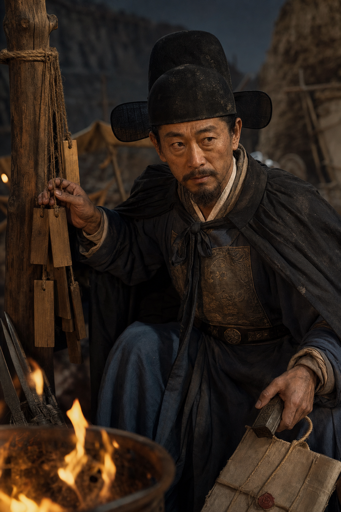
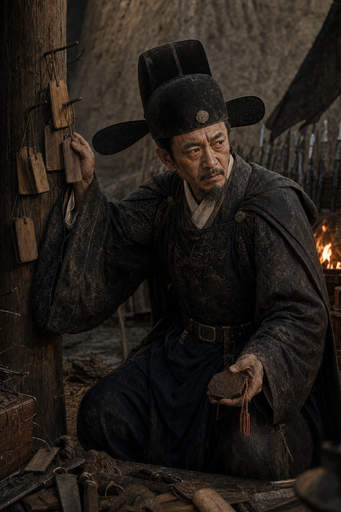
cmr r6: close portrait asset and prompt findings

diff --git a/docs/portrait-prompts-scene-v2.md b/docs/portrait-prompts-scene-v2.md
@@ -160,7 +160,7 @@ Composition/framing: Use a pose silhouette that cannot collapse into the same de
 姿势锚点：
 身体朝向=站在卷宗架旁，身体正面略偏左；重心=直立稳在两脚之间；双手位置=右手从高架抽出一本厚空白名单册，左手把另一册夹在腋下；道具关系=名单册、履历卷宗、印匣形成「决定谁进谁退」关系；视线方向=平平扫向旁侧人影，像在掂量人；动作类型=站姿、抽册、夹册，不坐案前递册。
 
-场景服饰：深黑蓝文官袍，吏部权柄感，纹样锋利克制；吏部铨选房，高卷宗架、无字名册、印匣、官员履历卷宗。
+场景服饰：深黑蓝文官袍，吏部权柄感，纹样锋利克制；吏部铨选房，高卷宗架、无字名册、印匣、无字官员履历卷宗。
 
 专属负面：不要拿刀剑，不要画成狞笑奸臣。Do not reuse the same actor face, facial structure, beard pattern, body type, pose, or silhouette as other portraits in this batch.
 
@@ -226,7 +226,7 @@ Composition/framing: Use a pose silhouette that cannot collapse into the same de
 
 场景服饰：深色文官袍外加被海风打湿的旅行披风，衣摆有盐渍和尘土；夜色海船甲板或登岸驿口，破帆、浪影、封缄国书箱、昏暗船灯，不要现代船。
 
-专属负面：不要画成文弱馆阁官，不要与张延登、袁可立同款海防楼台文官（刘鸿训在颠簸海船、身带怒气）。Do not reuse the same actor face, facial structure, beard pattern, body type, pose, or silhouette as other portraits in this batch.
+专属负面：不要画成文弱馆阁官，不要与张延登、袁可立同款海防楼台文官，不要与张煌言共用诗人海船抓绳抱卷姿态（刘鸿训在颠簸海船、身带怒气）。Do not reuse the same actor face, facial structure, beard pattern, body type, pose, or silhouette as other portraits in this batch.
 
 #### 钱谦益 `minister_钱谦益.png`
 
@@ -254,7 +254,7 @@ Composition/framing: Use a pose silhouette that cannot collapse into the same de
 脸型=端正的长方脸；额头=方正平整；眉眼=眉眼沉稳，目光正而不凌厉；鼻梁=直；颧骨=平稳端正；嘴唇=端方不薄；下颌=方而稳；胡须=整齐，少量灰；肤色=端正的中和肤色，不晒不病；皱纹=额头平纹、眼角浅纹；神情=可靠守法的制度感，严肃而不凌厉。
 
 姿势锚点：
-身体朝向=正面略前倾，朝召对方向；重心=肩背端直，稳立；双手位置=一手把无字奏疏竖起在胸前，另一手平伸作克制劝谏；道具关系=奏疏、烛台、无字奏疏匣形成「朝堂直言辩白」关系；视线方向=平视前方，正对召对；动作类型=正立前倾、举疏、伸手劝谏，不拢袖静立。
+身体朝向=正面略前倾，朝召对方向；重心=肩背端直，稳立；双手位置=一手把无字奏疏竖起在胸前，另一手抬在胸前作克制劝谏，手掌完整留在中轴安全区内；道具关系=奏疏、烛台、无字奏疏匣形成「朝堂直言辩白」关系；视线方向=平视前方，正对召对；动作类型=正立前倾、举疏、抬手劝谏，不拢袖静立。
 
 场景服饰：深蓝黑文官袍，简洁端方；宫中召对或礼部堂上，暗色柱影、烛台、无字奏疏匣。
 
@@ -318,11 +318,11 @@ Composition/framing: Use a pose silhouette that cannot collapse into the same de
 脸型=白而松的椭圆脸；额头=宽；眉眼=眉细，眼神聪明但漂移；鼻梁=直而细；颧骨=被松软白肉盖住；嘴唇=笑意已经僵住，嘴角发紧；下颌=松而圆；胡须=修整得很细；肤色=养白却被军帐风尘压暗；皱纹=眼下松纹、嘴角僵笑纹；神情=把怯战包装成功劳的心虚，不是青年新贵。
 
 姿势锚点：
-身体朝向=半坐半起，身体微微后缩；重心=欲起又缩，悬在椅与案之间；双手位置=一手把封缄捷报递向旁侧信使方向，但手和整封捷报完整留在中轴安全区内，另一手用袖口压住散乱无字军报与被压住的败报；道具关系=虚捷报、被压住的败报、令牌形成「军帐递虚捷」关系；视线方向=递报却不敢正视信使，眼神飘；动作类型=半坐半起、递捷、压败报，不拱手正立。
+身体朝向=半坐半起，身体微微后缩；重心=欲起又缩，悬在椅与案之间；双手位置=一手把封缄捷报递向旁侧空位方向，但手和整封捷报完整留在中轴安全区内，另一手用袖口压住散乱无字军报与被压住的败报；道具关系=虚捷报、被压住的败报、令牌形成「军帐递虚捷」关系；视线方向=递报却不敢正视旁侧空位，眼神飘；动作类型=半坐半起、递捷、压败报，不拱手正立。
 
 场景服饰：精致深蓝黑首辅文官袍，外披军中暗色厚披风，衣冠仍讲究但被风尘压住；通州临时督师帐，帐外远处有京畿烽烟和寒风，无字捷报、被压住的败报、令牌、半凉茶盏。
 
-专属负面：不要画成青年新贵，不要画成脸谱奸相，不要与温体仁或钱谦益共用白净椭圆脸和漂移眼神。Do not reuse the same actor face, facial structure, beard pattern, body type, pose, or silhouette as other portraits in this batch.
+专属负面：不要画成青年新贵，不要画成脸谱奸相，不要出现第二个人物或第二只接报手，不要与温体仁或钱谦益共用白净椭圆脸和漂移眼神。Do not reuse the same actor face, facial structure, beard pattern, body type, pose, or silhouette as other portraits in this batch.
 
 #### 倪元璐 `minister_倪元璐.png`
 
@@ -594,25 +594,25 @@ Composition/framing: Use a pose silhouette that cannot collapse into the same de
 脸型=长方严肃脸，六十岁上下；额头=高而起横纹；眉眼=花白浓眉，眼神沉重疲惫；鼻梁=直而平；颧骨=不削，带松弛；嘴唇=抿而下垂；下颌=略松微垂；胡须=花白长须，齐整；肤色=灰黄少血色；皱纹=额纹、眼袋纹、法令纹深；神情=知自己只是暂压矛盾的沉重。
 
 姿势锚点：
-身体朝向=坐案侧身朝旁侧边将方向，上半身略转；重心=偏压在推令的右臂；双手位置=左手按住一封空白保任奏疏，右手把空白将令推向旁侧边将方向，但右手和整枚将令完整留在中轴安全区内；道具关系=保任奏疏、空白将令、辽东地图连成“替边将保任”关系；视线方向=却望向关门外，似有忧虑；动作类型=按奏疏、推将令，不双手按桌。
+身体朝向=坐案侧身朝旁侧军令匣方向，上半身略转；重心=偏压在推令的右臂；双手位置=左手按住一封空白保任奏疏，右手把空白将令推向旁侧军令匣方向，但右手和整枚将令完整留在中轴安全区内；道具关系=保任奏疏、空白将令、辽东地图连成“替边将保任”关系；视线方向=却望向关门外，似有忧虑；动作类型=按奏疏、推将令，不双手按桌。
 
 场景服饰：文官督师袍外加厚披风与轻甲护肩；宁远军务帐，无字辽东地图、满桂军牌空白将令、尚方剑匣、火盆、旧军报。
 
-专属负面：不要画成英武名帅，不要黝黑猛将，不要双手按桌。Do not reuse the same actor face, facial structure, beard pattern, body type, pose, or silhouette as other portraits in this batch.
+专属负面：不要画成英武名帅，不要黝黑猛将，不要双手按桌，不要出现第二个人物或第二只接令手。Do not reuse the same actor face, facial structure, beard pattern, body type, pose, or silhouette as other portraits in this batch.
 
 #### 毛文龙 `minister_毛文龙.png`
 
 人物：毛文龙，东江镇总兵，经营皮岛、牵制后金，却跋扈难制，最终被袁崇焕斩于双岛。
 
-历史锚点：双岛召见前的皮岛海上军镇里，他倚着船桅压住东江军册，斜视脚边未拆的空白督师令，神色不服。
+历史锚点：双岛召见前的皮岛海上军镇里，他倚着船桅压住东江军册，斜视桅座旁未拆的空白督师令，神色不服。
 
 脸部锚点：
 脸型=宽阔粗脸，五十岁上下；额头=宽而粗糙；眉眼=乱浓眉，眼神桀骜不服；鼻梁=宽而带海风皴裂；颧骨=高阔；嘴唇=厚而下撇；下颌=方阔带须；胡须=乱黑须夹灰，不守规整；肤色=海风吹出的黝黑；皱纹=额纹、眼角纹、风皴；神情=江湖军阀气，桀骜难制。
 
 姿势锚点：
-身体朝向=半侧身倚着船桅，肩朝海外；重心=斜倚压在桅杆上，散漫；双手位置=右手按刀柄，左手压住无字东江军饷册；道具关系=无字东江军饷册、脚边未拆的空白督师令、粮船货箱连成“跋扈待罪”关系；视线方向=斜睨脚边督师令，不服；动作类型=倚桅压册斜视，不站立持令。
+身体朝向=半侧身倚着船桅，肩朝海外；重心=斜倚压在桅杆上，散漫；双手位置=右手按刀柄，左手压住无字东江军饷册；道具关系=无字东江军饷册、桅座旁未拆的空白督师令、粮船货箱连成“跋扈待罪”关系；视线方向=斜睨桅座旁督师令，不服；动作类型=倚桅压册斜视，不站立持令。
 
-场景服饰：明军将领甲胄混搭厚皮袍，略不守规制；皮岛东江海岛军营，海风、船影、火盆、无字军旗、粮船货箱、空白督师令。
+场景服饰：明军将领甲胄混搭厚皮袍，略不守规制；皮岛东江海岛军营，海风、船影、火盆、无字军旗、粮船货箱、桅座旁空白督师令。
 
 专属负面：不要画成正统边帅或处决场景，不要瘦长脸，不要正面站定持令，不要与左良玉共用病态倚舷抓绳回望火光姿态。Do not reuse the same actor face, facial structure, beard pattern, body type, pose, or silhouette as other portraits in this batch.
 
@@ -626,11 +626,11 @@ Composition/framing: Use a pose silhouette that cannot collapse into the same de
 脸型=厚重偏方的北地官脸；额头=宽而被风吹暗；眉眼=眉毛粗短，眼神疲惫里带算计；鼻梁=宽直；颧骨=中高，被风霜磨出硬线；嘴唇=偏厚，嘴角向下压；下颌=宽钝；胡须=浓短灰黑须，边镇尘土未净；肤色=风霜暗黄；皱纹=眼袋重、额侧风纹和法令纹深；神情=边务疲惫与附阉求稳混在一起，不是纯武将。
 
 姿势锚点：
-身体朝向=半侧身站在祠堂木模型与边防图之间；重心=向递奏稿的右臂前压；双手位置=右手把封缄颂功奏稿递向旁侧内侍方向，但手和整封奏稿完整留在中轴安全区内，左手按住祠堂木模型；道具关系=颂功奏稿、祠堂模型、边防图形成“边务献媚内廷”关系；视线方向=看向屏风外的内侍方向；动作类型=站姿、递稿、压模型，不按刀。
+身体朝向=半侧身站在祠堂木模型与边防图之间；重心=向递奏稿的右臂前压；双手位置=右手把封缄颂功奏稿递向屏风前阴影方向，但手和整封奏稿完整留在中轴安全区内，左手按住祠堂木模型；道具关系=颂功奏稿、祠堂模型、边防图形成“边务献媚内廷”关系；视线方向=看向屏风前阴影方向；动作类型=站姿、递稿、压模型，不按刀。
 
 场景服饰：文官督师袍加厚披风，暗色官帽，少量军务尘土；蓟辽总督衙署旁的暗色祠堂筹建值房，边墙阴影、无字边防图、祠堂木模型、军报、封缄颂功奏稿。
 
-专属负面：不要画成纯武将，不要像王在晋的保守关防老人，不要把附阉画成夸张奸笑。Do not reuse the same actor face, facial structure, beard pattern, body type, pose, or silhouette as other portraits in this batch.
+专属负面：不要画成纯武将，不要像王在晋的保守关防老人，不要把附阉画成夸张奸笑，不要出现第二个人物或第二只接稿手。Do not reuse the same actor face, facial structure, beard pattern, body type, pose, or silhouette as other portraits in this batch.
 
 #### 洪承畴 `minister_洪承畴.png`
 
@@ -706,7 +706,7 @@ Composition/framing: Use a pose silhouette that cannot collapse into the same de
 脸型=方阔国字脸；额头=中等、压在束发软帻下，发际被尘汗黏住；眉眼=浓硬粗眉，眼睛直瞪而含怒；鼻梁=直而宽，鼻翼绷紧；颧骨=方硬突出；嘴唇=厚而紧抿，几乎咬住；下颌=宽方有力；胡须=硬而短的络腮连下颌须，根根支楞不修；肤色=被旷野风沙晒成的赭褐；皱纹=眉间深竖纹、嘴角硬纹；神情=兵孤粮尽却脊梁不折的刚怒。
 
 姿势锚点：
-身体朝向=正面挺立，胸膛朝向逼降者，头却扭向城墙的反方向；重心=双脚分立稳压地面，被绳束仍站得笔直；双手位置=双手在身前被粗绳草草缚住、十指相扣不肯松；道具关系=束绳、脚边落下的劝降令、空粮袋构成“被俘拒喊话”关系；视线方向=别开逼降者、斜望旷野远处城墙；动作类型=站姿、扭头拒喊、十指相扣，不按桌不持械。
+身体朝向=正面挺立，胸膛朝向逼降者，头却扭向城墙的反方向；重心=双脚分立稳压地面，被绳束仍站得笔直；双手位置=双手在身前被粗绳草草缚住、十指相扣不肯松；道具关系=束绳、腰前挂住的无字劝降令、空粮袋构成“被俘拒喊话”关系；视线方向=别开逼降者、斜望旷野远处城墙；动作类型=站姿、扭头拒喊、十指相扣，不按桌不持械。
 
 场景服饰：文官督师袍外罩破损披风与轻甲护肩，深蓝黑、沾泥血尘但不血腥，衣摆撕裂；河南旷野临时敌营，无字破旗、断箭、空粮袋、寒风、远处城墙剪影。
 
@@ -912,7 +912,7 @@ Composition/framing: Use a pose silhouette that cannot collapse into the same de
 脸型=矮瘦窄脸；额头=不高，额角被尘土压暗；眉眼=短斜眉，小眼警醒；鼻梁=薄而直；颧骨=外露，脸颊收紧；嘴唇=干裂；下颌=尖硬；胡须=短黑须夹尘灰；肤色=黝黑带黄土色；皱纹=眼尾和嘴角有风沙细纹；神情=实地清点战果的警惕，不是坐衙书生。
 
 姿势锚点：
-身体朝向=半蹲在木柱旁；重心=压在靠近木牌的右膝和右手；双手位置=右手挂一串无字木牌，左手握巡抚令牌；道具关系=木牌、军报、缴获兵器连成“俘杀群寇”关系；视线方向=侧向营外火光；动作类型=半蹲、挂牌、握令，不按桌。
+身体朝向=半蹲在木柱旁；重心=压在靠近木牌的右膝和右手；双手位置=右手挂一串无字木牌，左手握小型无字巡抚令牌且完整留在中轴安全区内；道具关系=木牌、军报、缴获兵器连成“俘杀群寇”关系；视线方向=侧向营外火光；动作类型=半蹲、挂牌、握令，不按桌。
 
 场景服饰：地方文官袍外披军务短披风；陕西黄土行营，火盆、缴获兵器、临时木柱、无字木牌、封缄军报。
 
@@ -989,7 +989,7 @@ Composition/framing: Use a pose silhouette that cannot collapse into the same de
 姿势锚点：
 身体朝向=面向湿冷军图大幅前倾；重心=压在两臂之间；双手位置=一手握明军令牌，一手推大顺旧木牌向中间合拢；道具关系=明军令牌、大顺旧牌、湖南军图形成“拼凑联盟”关系；视线方向=盯两牌交汇处；动作类型=俯身、双臂合牌，不是海防推模型。
 
-场景服饰：深蓝文官督师袍，行旅披风和轻甲护肩；湘楚军务行营、湿冷火盆、无字湖南军图、旧旗残片、封缄军报。
+场景服饰：深蓝文官督师袍，行旅披风和轻甲护肩；湘楚军务行营、湿冷火盆、无字湖南军图、纯色无纹旧旗残片、封缄军报；旗面不要出现像字形、书法或徽记笔画的亮色痕迹，不出现背景人物脸。
 
 专属负面：不要像邹维琏的海防桌案，不要像史可法的城墙守死，不要普通地方官。Do not reuse the same actor face, facial structure, beard pattern, body type, pose, or silhouette as other portraits in this batch.
 
@@ -1021,7 +1021,7 @@ Composition/framing: Use a pose silhouette that cannot collapse into the same de
 
 场景服饰：深青文武混合袍服，海风短披风，佩剑克制；浙东/舟山海船甲板、夜海、船帆、布面纯色无纹的无字军旗、远处城影；旗面不要出现像字形、书法或徽记笔画的亮色痕迹。
 
-专属负面：不要老白须，不要少年童生，不要普通成熟将军，不要像史可法的城墙守臣。Do not reuse the same actor face, facial structure, beard pattern, body type, pose, or silhouette as other portraits in this batch.
+专属负面：不要老白须，不要少年童生，不要普通成熟将军，不要像史可法的城墙守臣，不要与刘鸿训共用海船抓缆护书姿态，不要与郑成功共用台江战船按模型握令旗姿态。Do not reuse the same actor face, facial structure, beard pattern, body type, pose, or silhouette as other portraits in this batch.
 
 ## 宗藩与宫廷宗室
 
@@ -1147,7 +1147,7 @@ Composition/framing: Use a pose silhouette that cannot collapse into the same de
 历史锚点：后金议政帐中，他在皇太极面前怒而半拔刀、越过礼法线的一瞬。
 脸部锚点：脸型=短宽脸、脖颈粗；额头=低宽；眉眼=眉浓乱、眼大外露；鼻梁=钝粗；颧骨=粗阔；嘴唇=嘴角绷硬；下颌=宽厚紧绷；胡须/发饰=满洲垂辫、浓黑短须；肤色=风吹粗粝；皱纹/年龄纹=四十上下、额颊粗纹；神情=一点就着、暴烈失控。
 姿势锚点：身体朝向=斜向前方冲出；重心=前倾失稳；双手位置=右手握半出鞘刀柄、左手抓扯乱的披风边；道具关系=露刃越礼；视线方向=逼视皇太极；动作类型=怒而半拔刀。
-场景服饰：后金军帐，火盆、无字蓝旗影、刀弓、被震翻的酒碗、议政木牌散乱；后金甲胄，厚皮袍，蓝旗系深蓝细节，暗色披风。
+场景服饰：后金军帐，火盆、无字蓝旗影、刀弓、被震翻的酒碗、牌面朝下的无字无刻痕议政木牌散乱；后金甲胄，厚皮袍，蓝旗系深蓝细节，暗色披风。
 专属负面：不要画成沉稳统帅或普通猛将、不要丑化成蛮汉。Do not reuse the same actor face, facial structure, beard pattern, body type, pose, or silhouette as other portraits in this batch.
 
 #### 阿敏 `minister_阿敏.png`
@@ -1257,7 +1257,7 @@ Composition/framing: Use a pose silhouette that cannot collapse into the same de
 
 场景服饰：厚甲、皮裘、重刀，黑褐重甲压迫感强；前线军营，火盆、马匹、破雪地、无字战报、无字残旗。
 
-专属负面：不要画成多尔衮式俊冷贝勒，不要画成后金文臣，不要做成晚年权臣。Do not reuse the same actor face, facial structure, beard pattern, body type, pose, or silhouette as other portraits in this batch.
+专属负面：不要画成多尔衮式俊冷贝勒，不要画成后金文臣，不要做成晚年权臣，不要与鳌拜共用攀城梯强压迫姿态。Do not reuse the same actor face, facial structure, beard pattern, body type, pose, or silhouette as other portraits in this batch.
 
 #### 豪格 `minister_豪格.png`
 

diff --git a/docs/portrait-prompts-local-south1-review.md b/docs/portrait-prompts-local-south1-review.md
@@ -102,7 +102,7 @@
 脸型=矮瘦窄脸；额头=不高，额角被尘土压暗；眉眼=短斜眉，小眼警醒；鼻梁=薄而直；颧骨=外露，脸颊收紧；嘴唇=干裂；下颌=尖硬；胡须=短黑须夹尘灰；肤色=黝黑带黄土色；皱纹=眼尾和嘴角有风沙细纹；神情=实地清点战果的警惕，不是坐衙书生。
 
 姿势锚点：
-身体朝向=半蹲在木柱旁；重心=压在靠近木牌的右膝和右手；双手位置=右手挂一串无字木牌，左手握巡抚令牌；道具关系=木牌、军报、缴获兵器连成“俘杀群寇”关系；视线方向=侧向火光或营外动静；动作类型=半蹲、挂牌、握令，不按桌。
+身体朝向=半蹲在木柱旁；重心=压在靠近木牌的右膝和右手；双手位置=右手挂一串无字木牌，左手握小型无字巡抚令牌且完整留在中轴安全区内；道具关系=木牌、军报、缴获兵器连成“俘杀群寇”关系；视线方向=侧向火光或营外动静；动作类型=半蹲、挂牌、握令，不按桌。
 
 场景服饰：地方文官袍外披军务短披风；陕西黄土行营，火盆、缴获兵器、临时木柱、无字木牌、封缄军报。
 
@@ -200,7 +200,7 @@
 姿势锚点：
 身体朝向=面向湿冷军图大幅前倾；重心=压在两臂之间；双手位置=一手握明军令牌，一手推大顺旧木牌向中间合拢；道具关系=明军令牌、大顺旧牌、湖南军图形成“拼凑联盟”关系；视线方向=盯两牌交汇处；动作类型=俯身、双臂合牌，不是海防推模型。
 
-场景服饰：深蓝文官督师袍，行旅披风和轻甲护肩；湘楚军务行营、湿冷火盆、无字湖南军图、旧旗残片、封缄军报。
+场景服饰：深蓝文官督师袍，行旅披风和轻甲护肩；湘楚军务行营、湿冷火盆、无字湖南军图、纯色无纹旧旗残片、封缄军报；旗面不要出现像字形、书法或徽记笔画的亮色痕迹，不出现背景人物脸。
 
 专属负面：不要像邹维琏的海防桌案，不要像史可法的城墙守死，不要普通地方官。
 
